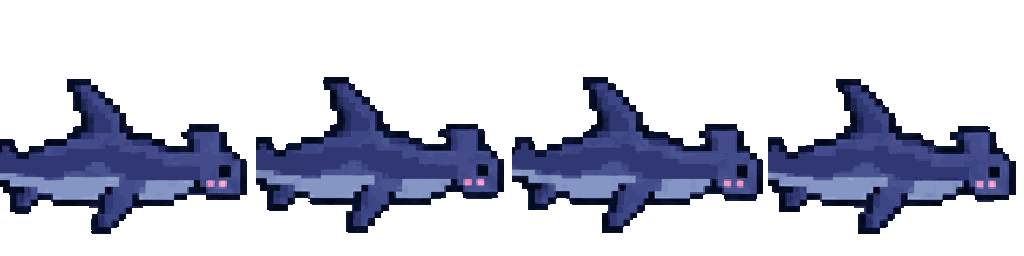
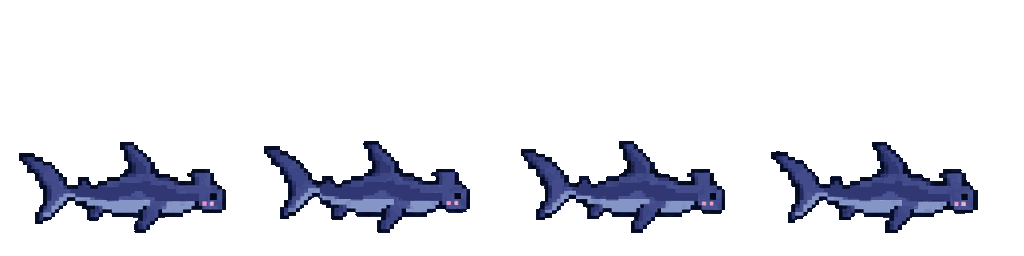
죽음 모션 19종, 오크 예고 공격, 도약 대쉬를 달리기로 통일, 귀상어 잘림 수정, 화염병 스프라이트
Claude-Session: https://claude.ai/code/session_01CTycXSNtqEpKLb11niWLUo

diff --git a/quiz-game/src/world.js b/quiz-game/src/world.js
@@ -26,7 +26,7 @@ export class WorldScene extends Phaser.Scene {
 
   preload() {
     for (const s of SPRITES) {
-      for (const m of Object.keys(SPRITE.motions)) {
+      for (const m of [...Object.keys(SPRITE.motions), ...(sprites[s]?.die ? ['die'] : [])]) {
         this.load.spritesheet(`${s}-${m}`, hooks.spriteUrl(s, m), { frameWidth: SPRITE.cell, frameHeight: SPRITE.cell });
       }
     }
@@ -38,6 +38,7 @@ export class WorldScene extends Phaser.Scene {
     this.add.image(0, 0, 'floor').setOrigin(0).setScale(BU / TILE).setDepth(-100);
 
     this.zoneGfx = this.add.graphics().setDepth(-80);
+    this.teleGfx = this.add.graphics().setDepth(-45); // 예고 범위 (타격 전 붉은 부채꼴)
     this.aimGfx = this.add.graphics().setDepth(-50); // 사거리 링 · 조준선 · 조준 대상 링 (캐릭터 아래, 바닥 위)
     this.aim = null;
     this.lockId = null;
@@ -48,7 +49,8 @@ export class WorldScene extends Phaser.Scene {
     this.zoneImgs = [];
 
     for (const s of SPRITES) {
-      const n = sprites[s]; // 없으면 blue(constants의 프레임 수)
+      const n = sprites[s]?.idle ? sprites[s] : null; // 없으면 blue(constants의 프레임 수)
+      if (sprites[s]?.die) this.anims.create({ key: `${s}-die`, frames: this.anims.generateFrameNumbers(`${s}-die`, { start: 0, end: sprites[s].die - 1 }), frameRate: 9, repeat: 0 });
       SPRITE.attackSteps.forEach((st, i) => {
         // 새 스프라이트의 공격은 한 동작(0번은 준비 자세)이라 단계마다 1~끝을 그 시간에 맞춰 재생
         const frames = n ? Array.from({ length: n.combo - 1 }, (_, k) => k + 1) : st.frames;
@@ -101,6 +103,20 @@ export class WorldScene extends Phaser.Scene {
       const k = tw.getValue();
       ring.clear().lineStyle(5 - 2 * k, 0xffffff, 1 - 0.5 * k).strokeCircle(v.x, v.y, (2.4 - 1.6 * k) * BU);
     }, onComplete: () => ring.destroy() });
+  }
+
+  _drawTelegraph(now) {
+    const g = this.teleGfx;
+    g.clear();
+    for (const v of this.views.values()) {
+      const w = v.windup;
+      if (!w) continue;
+      if (now >= w.until || v.p.st) { v.windup = null; continue; }
+      const u = (now - w.from) / (w.until - w.from), R = w.range * BU, ang = Math.atan2(w.dy, w.dx), half = (w.arc * Math.PI) / 180;
+      g.fillStyle(0xff3b30, 0.12 + 0.3 * u).slice(v.x, v.y, R, ang - half, ang + half, false).fillPath(); // 시간이 갈수록 진해짐
+      g.fillStyle(0xff3b30, 0.35).slice(v.x, v.y, R * u, ang - half, ang + half, false).fillPath(); // 안쪽부터 차오름
+      g.lineStyle(3, 0xff3b30, 0.9).beginPath().moveTo(v.x, v.y).lineTo(v.x + Math.cos(ang - half) * R, v.y + Math.sin(ang - half) * R).arc(v.x, v.y, R, ang - half, ang + half, false).lineTo(v.x, v.y).strokePath();
+    }
   }
 
   _drawAim(now) {
@@ -182,7 +198,9 @@ export class WorldScene extends Phaser.Scene {
   handleEvent(e) {
     const now = performance.now();
     const v = this.views.get(e.id);
-    if (e.e === 'atk' && v) {
+    if (e.e === 'windup' && v) {
+      v.windup = { from: now, until: now + e.sec * 1000, dx: e.dx, dy: e.dy, range: e.range, arc: e.arc };
+    } else if (e.e === 'atk' && v) {
       const step = Math.min(e.step || 0, SPRITE.attackSteps.length - 1);
       v.sprite.play(`${v.p.s}-atk${step}`, false);
       v.punchUntil = now + SPRITE.attackSteps[step].ms;
@@ -244,6 +262,7 @@ export class WorldScene extends Phaser.Scene {
   // ---------- 매 프레임 ----------
   update(_time, delta) {
     const now = performance.now();
+    this._drawTelegraph(now);
     const k = Math.min(1, (delta / 1000) * 20); // 위치 보간 (끊김 완화)
     for (const v of this.views.values()) {
       const p = v.p;
@@ -257,14 +276,16 @@ export class WorldScene extends Phaser.Scene {
       v.sprite.setScale(SPR_SCALE * (p.zs || 1));
 
       // 모션: 공격 중이면 유지, 아니면 이동 상태에 맞춰
-      if (now >= v.punchUntil) v.sprite.play(`${p.s}-${p.st ? 'idle' : p.a}`, true);
+      const dies = p.st && sprites[p.s]?.die; // 기절하면 죽음 모션을 한 번 재생하고 누운 채로 둠
+      if (dies) { if (!v.dead) { v.dead = true; v.sprite.play(`${p.s}-die`); } }
+      else { v.dead = false; if (now >= v.punchUntil) v.sprite.play(`${p.s}-${p.st ? 'idle' : p.a}`, true); }
 
       // 맞았을 때 0.1초 하얗게
       if (now < v.flashUntil) { v.sprite.setTintFill(0xffffff); v.flashing = true; }
       else if (v.flashing) { v.sprite.clearTint(); if (v.tint) v.sprite.setTint(v.tint); v.flashing = false; }
 
       // 기절: 쓰러진 모습 / 무적: 깜빡임
-      v.sprite.setAngle(p.st ? 80 * p.f : 0);
+      v.sprite.setAngle(p.st && !dies ? 80 * p.f : 0);
       v.sprite.setAlpha(p.inv ? 0.45 + 0.35 * Math.sin(now / 70) : 1);
 
       // 체력바 + 이름

diff --git a/quiz-game/server/game.js b/quiz-game/server/game.js
@@ -295,6 +295,17 @@ export class Game {
       this.events.push({ e: 'atk', id: p.id, dx: r2(dx), dy: r2(dy), kind: 'proj', step, len: range });
       return;
     }
+    if (a.windup) { // 예고 후 타격: 범위를 보여 주는 동안 피할 수 있다
+      p.windup = { at: this.t + a.windup, range, dx, dy, m, step };
+      p.attackUntil += a.windup;
+      this.events.push({ e: 'windup', id: p.id, dx: r2(dx), dy: r2(dy), range: r2(range), arc: a.arcDeg ?? 60, sec: a.windup });
+      return;
+    }
+    this._strike(p, range, dx, dy, m, step);
+  }
+
+  _strike(p, range, dx, dy, m, step) {
+    const a = p.cfg.attack;
     const hits = this._pickTargets(p, range, dx, dy);
     this.events.push({ e: 'atk', id: p.id, dx: r2(dx), dy: r2(dy), kind: a.type, fx: a.fx, arc: a.arcDeg, step, len: r2(hits[0] && !(a.multi && a.type === 'ranged') ? hits[0].dist : range) });
     for (const h of a.multi ? hits : hits.slice(0, 1)) this._hit(h.o, p, dx, dy, m.dmg ?? 1, m.knockback ?? 1); // multi: 범위 안 모두
@@ -504,6 +515,10 @@ export class Game {
 
   _step(p, dt) {
     const c = p.cfg;
+    if (p.windup && (p.stunned || this.t >= p.windup.at)) { // 예고가 끝나면 타격 (그 전에 쓰러지면 취소)
+      const w = p.windup; p.windup = null;
+      if (!p.stunned) this._strike(p, w.range, w.dx, w.dy, w.m, w.step);
+    }
     if (p.stunned && this.t >= p.stunUntil) { // 기절 해제 → 체력 회복 + 무적
       p.stunned = false;
       p.hp = c.hp;

diff --git a/quiz-game/tools/build_chars.py b/quiz-game/tools/build_chars.py
@@ -16,7 +16,7 @@ from scipy import ndimage
 import build_sheets as bs
 
 REF_SIZE = 158  # 기본(blue) 캐릭터 idle의 덩치(면적 제곱근)
-MOTIONS = {"idle": 4, "walk": 6, "run": 6, "attack": 6}  # 모션 → 프레임 수 (attack은 2줄 x 3칸)
+MOTIONS = {"idle": 4, "walk": 6, "run": 6, "attack": 6, "die": 6}  # 모션 → 프레임 수 (attack·die는 2줄 x 3칸)
 
 
 def clean(a: np.ndarray) -> np.ndarray:
@@ -84,17 +84,19 @@ def split(a, n, grid):
 def main(src: Path, out: Path):
     jp = Path(__file__).parent.parent / "shared" / "sprites.json"
     sprites = json.loads(jp.read_text())  # 일부 캐릭터만 다시 만들어도 나머지는 유지
+    only = os.environ.get("ONLY", ",".join(MOTIONS)).split(",")  # ONLY=die 처럼 일부 모션만 다시 만들기
     for cid in sorted({p.name.rsplit("_", 1)[0] for p in src.glob("*.png")}):
         d = out / cid
         d.mkdir(parents=True, exist_ok=True)
-        counts = {}
+        counts = dict(sprites.get(cid, {}))
+        motions = []  # (이름, 프레임, 발 위치 정보, 배율)
         for mo, n in MOTIONS.items():
+            if mo not in only:
+                continue
             n = int(os.environ.get(f"FRAMES_{cid}_{mo}", n))  # 모션별 프레임 수 지정
-            grid = mo == "attack"
             a = strip_bg(src / f"{cid}_{mo}.png")
-            boxes = split(a, n, grid)
             frames = []
-            for y0, y1, x0, x1 in boxes:
+            for y0, y1, x0, x1 in split(a, n, mo in ("attack", "die")):
                 sub = a[y0:y1 + 1, x0:x1 + 1]
                 ys = np.where((sub[..., 3] > 128).any(axis=1))[0]
                 frames.append(sub[ys.min():ys.max() + 1])
@@ -107,19 +109,27 @@ def main(src: Path, out: Path):
                     ys = np.where(al.any(axis=1))[0]
                     xs = np.where(al[ys.max() - 8:].any(axis=0))[0]
                     infos.append(((xs.min() + xs.max()) / 2, ys.max(), xs.max() - xs.min() + 1))
-            name = "combo" if mo == "attack" else mo
             # 원본은 모션마다 그려진 크기가 달라서, 모션별로 몸통(가장 큰 덩어리) 크기를 REF_SIZE에 맞춘다
             sc = REF_SIZE / float(np.median([body(f) for f in frames]))
+            motions.append(("combo" if mo == "attack" else mo, frames, infos, sc))
+        # 셀보다 넓은 캐릭터(귀상어 등)는 모든 모션을 같은 비율로 줄여 안 잘리게 한다
+        fit = min([1.0] + [(bs.CELL - 4) / (f.shape[1] * sc) for _, fs, _, sc in motions for f in fs])
+        if fit < 1:
+            print(f"{cid}: 너무 넓어서 {fit:.3f}배로 줄임 → characters.json scale을 {1 / fit:.3f}배 키울 것")
+        for name, frames, infos, sc in motions:
+            sc *= fit
             sheet = Image.new("RGBA", (bs.CELL * len(frames), bs.CELL), (0, 0, 0, 0))
             for i, (f, (cx, by, _)) in enumerate(zip(frames, infos)):
                 im = Image.fromarray(f)
                 im = im.resize((max(1, round(im.width * sc)), max(1, round(im.height * sc))), Image.NEAREST)
                 px, py = bs.ANCHOR[0] - round(cx * sc), bs.ANCHOR[1] - round(by * sc)
+                px = min(max(px, 0), bs.CELL - im.width)  # 살짝 벗어난 건 옆으로 밀어 넣음 (쓰러진 자세 등)
+                py = max(py, 0)
                 cell = Image.new("RGBA", (bs.CELL, bs.CELL), (0, 0, 0, 0))
                 cell.paste(im, (px, py), im)
                 sheet.paste(cell, (i * bs.CELL, 0))
-                if px < 0 or px + im.width > bs.CELL or py < 0:
-                    print(f"참고: {cid} {name} {i} 셀 밖으로 나감")
+                if im.height > bs.CELL:
+                    print(f"참고: {cid} {name} {i} 세로가 셀보다 큼")
             sheet.save(d / f"{name}.png")
             counts[name] = len(frames)
         sprites[cid] = counts
